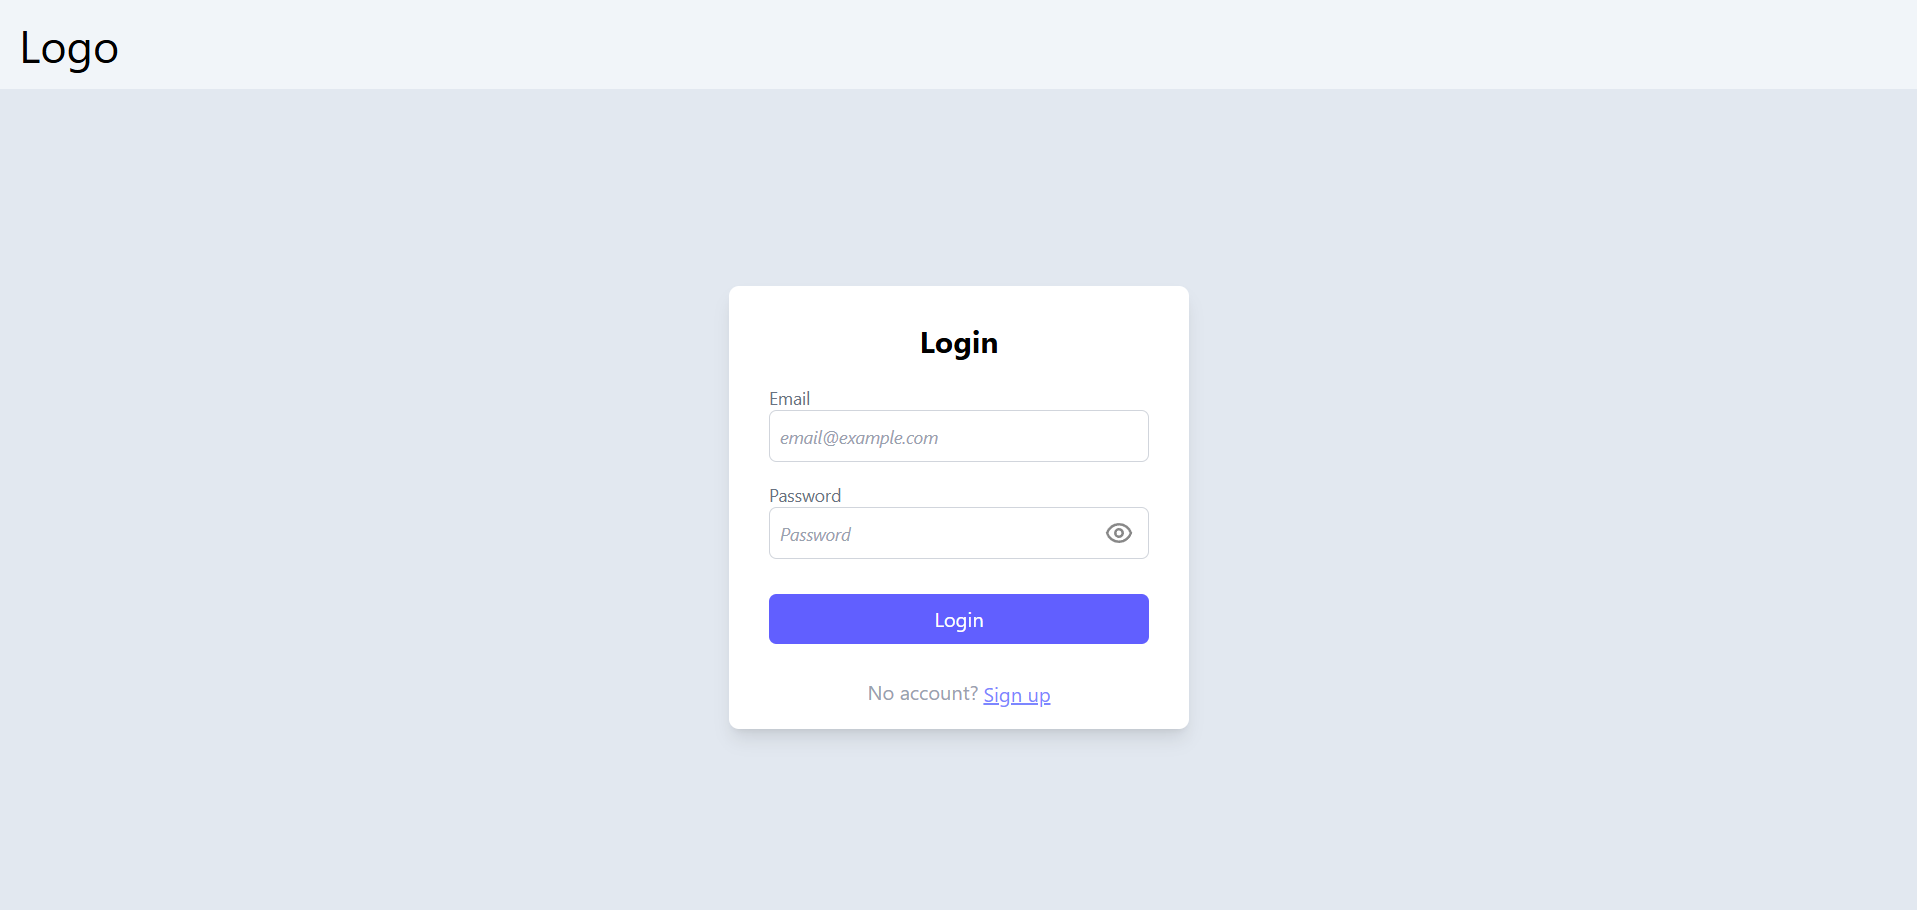
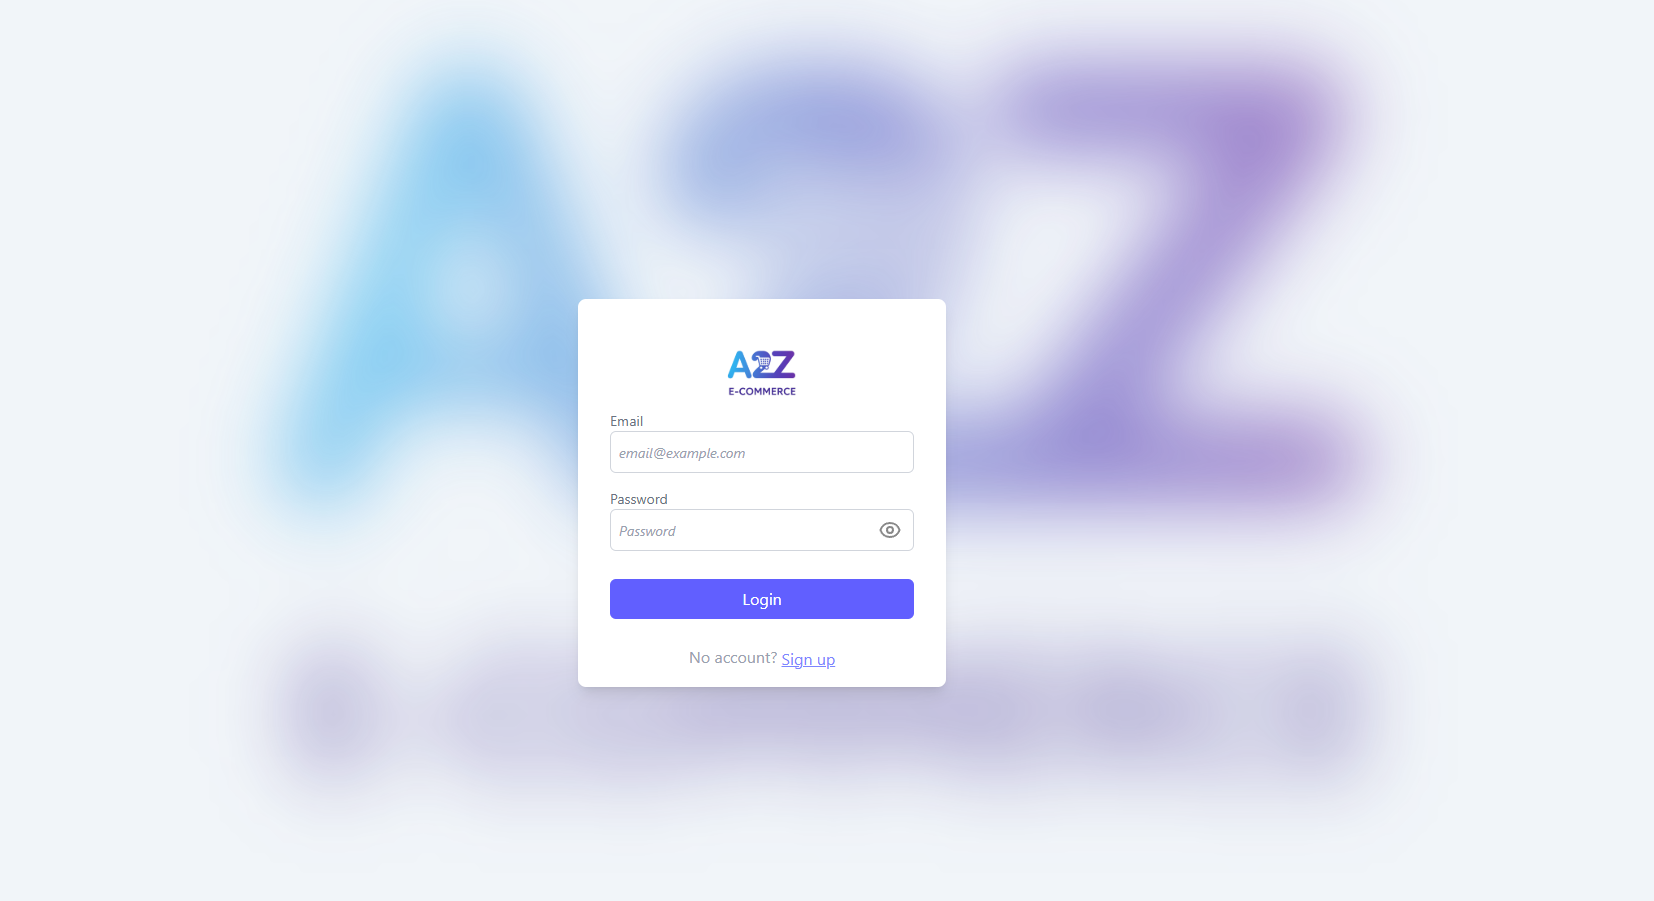
UI Update

diff --git a/index.php b/index.php
@@ -174,15 +174,18 @@
 </head>
 
 <body class="bg-slate-200">
-    <nav class="absolute top-0 left-0 w-full bg-slate-100 flex justify-between items-center p-4 text-4xl z-10">
-        Logo
-    </nav>
+    <nav class="absolute top-0 left-0 w-full bg-slate-100">
     <div class="container flex flex-col justify-center items-center h-screen">
+        <div class="absolute inset-0 w-full h-full z-0">
+            <img src="img/logo/a2ztransparent.png" alt="Logo" class="w-full h-full object-cover opacity-60 blur-2xl">
+        </div>
         <!-- Login Form -->
         <form id="loginForm" method="POST"
-            class="bg-white py-4 px-8 rounded-lg w-90 flex flex-col md:w-92 shadow-lg <?php echo ($show_form !== 'login') ? 'hidden' : ''; ?><?php echo (!empty($login_error) || !empty($signup_success)) ? ' form-tight' : ' gap-2'; ?>">
+            class="bg-white py-4 px-8 rounded-lg w-90 flex flex-col md:w-92 shadow-lg z-2 <?php echo ($show_form !== 'login') ? 'hidden' : ''; ?><?php echo (!empty($login_error) || !empty($signup_success)) ? ' form-tight' : ' gap-2'; ?>">
             <input type="hidden" name="form_type" value="login">
-            <div class="text-center text-2xl font-bold py-3">Login</div>
+            <div class="flex justify-center items-center flex-col text-2xl font-bold">
+                <img src="img/logo/a2ztransparent.png" alt="Logo" class="h-30 p-2 -mb-8">
+            </div>
             <?php if (!empty($login_error)): ?>
                 <div class="text-red-500 text-center text-sm mb-2 form-message"><?php echo htmlspecialchars($login_error); ?></div>
             <?php elseif (!empty($signup_success)): ?>
@@ -241,9 +244,11 @@
         </script>
         <!-- Signup Form -->
         <form id="signupForm" method="POST"
-            class="bg-white py-4 px-8 rounded-lg w-90 flex flex-col md:w-92 shadow-lg <?php echo ($show_form !== 'signup') ? 'hidden' : ''; ?><?php echo (!empty($signup_error)) ? ' form-tight' : ' gap-2'; ?>">
+            class="bg-white py-4 px-8 rounded-lg w-90 flex flex-col md:w-92 shadow-lg z-2 <?php echo ($show_form !== 'signup') ? 'hidden' : ''; ?><?php echo (!empty($signup_error)) ? ' form-tight' : ' gap-2'; ?>">
             <input type="hidden" name="form_type" value="signup">
-            <div class="text-center text-2xl font-bold py-3">Signup</div>
+            <div class="flex justify-center items-center flex-col text-2xl font-bold">
+                <img src="img/logo/a2ztransparent.png" alt="Logo" class="h-30 p-2 -mb-8">
+            </div>
             <?php if (!empty($signup_error)): ?>
                 <div class="text-red-500 text-center text-sm mb-2 form-message"><?php echo htmlspecialchars($signup_error); ?></div>
             <?php endif; ?>

diff --git a/components/admin_nav.php b/components/admin_nav.php
@@ -1,11 +1,13 @@
 <nav class="relative top-0 left-0 w-full h-16 bg-white flex justify-between items-center px-4 shadow-2xs">
-    <div class="text-2xl font-bold">LOGO</div>
+    <div class="text-2xl font-bold">
+        <img src="../img/logo/a2ztransparent.png" alt="Logo" class="h-30 p-2">
+    </div>
     <div class="flex items-center space-x-4">
-        <a id="nav-link" href="dashboard.php" class="text-gray-400 hover:text-slate-900 ">Dashboard</a>
-        <a id="nav-link" href="inventory.php" class="text-gray-400 hover:text-slate-900">Inventory</a>
-        <a id="nav-link" href="sales.php" class="text-gray-400 hover:text-slate-900">Sales</a>
-        <a id="nav-link" href="orders.php" class="text-gray-400 hover:text-slate-900">Orders</a>
-        <a id="nav-link" href="users.php" class="text-gray-400 hover:text-slate-900">Users</a>
+        <a id="nav-link" href="dashboard.php" class="text-gray-400 hover:text-slate-900 hover:bg-slate-100 py-2 px-3 rounded-2xl ">Dashboard</a>
+        <a id="nav-link" href="inventory.php" class="text-gray-400 hover:text-slate-900 hover:bg-slate-100 py-2 px-3 rounded-2xl">Inventory</a>
+        <a id="nav-link" href="sales.php" class="text-gray-400 hover:text-slate-900 hover:bg-slate-100 py-2 px-3 rounded-2xl">Sales</a>
+        <a id="nav-link" href="orders.php" class="text-gray-400 hover:text-slate-900 hover:bg-slate-100 py-2 px-3 rounded-2xl">Orders</a>
+        <a id="nav-link" href="users.php" class="text-gray-400 hover:text-slate-900 hover:bg-slate-100 py-2 px-3 rounded-2xl">Users</a>
         <form action="../">
             <button id="nav-link" name="logout" value="true" class="text-gray-400 hover:text-slate-900">Logout</button>
         </form>
@@ -14,7 +16,7 @@
 <script>
     function placeActive(idx) {
         let navLink = document.querySelectorAll('#nav-link');
-        navLink[idx].classList.add('font-bold', 'text-gray-800', 'bg-slate-100', 'cursor-default');
+        navLink[idx].classList.add('font-bold', 'text-gray-800', 'bg-slate-200', 'cursor-default');
     }
     placeActive(<?php echo $active_page; ?>);
 </script>

diff --git a/components/user_nav.php b/components/user_nav.php
@@ -1,9 +1,11 @@
 <nav class="relative top-0 left-0 w-full h-16 bg-white flex justify-between items-center px-4 shadow-2xs">
-    <div class="text-2xl font-bold">LOGO</div>
+    <div class="text-2xl font-bold">
+        <img src="../img/logo/a2ztransparent.png" alt="Logo" class="h-30 p-2">
+    </div>
     <div class="flex items-center space-x-4">
-        <a id="nav-link" href="homepage.php" class="text-gray-400 hover:text-slate-900 ">Home</a>
-        <a id="nav-link" href="cart.php" class="text-gray-400 hover:text-slate-900">Cart</a>
-        <a id="nav-link" href="profile.php" class="text-gray-400 hover:text-slate-900">Profile</a>
+        <a id="nav-link" href="homepage.php" class="text-gray-400 hover:text-slate-900 hover:bg-slate-100 py-2 px-3 rounded-2xl ">Home</a>
+        <a id="nav-link" href="cart.php" class="text-gray-400 hover:text-slate-900 hover:bg-slate-100 py-2 px-3 rounded-2xl">Cart</a>
+        <a id="nav-link" href="profile.php" class="text-gray-400 hover:text-slate-900 hover:bg-slate-100 py-2 px-3 rounded-2xl">Profile</a>
         <form action="../">
             
             <button id="nav-link" name="logout" value="true" class="text-gray-400 hover:text-slate-900">
